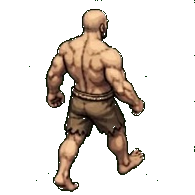
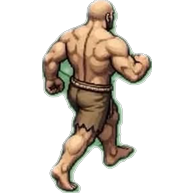
BUILD 399: bare up idle/walk replaced per user direction with the user-supplied back-view art; sim 43,444 passed

Changed region(s): [[0.2154, 0.0, 0.8, 1.0], [0.9846, 0.7385, 1.0, 0.8], [0.9846, 0.0, 1.0, 0.0308]]

diff --git a/index.html b/index.html
@@ -1,1 +1,1 @@
-<!doctype html><html lang="en"><head><!-- BUILD309-VIEWPORT-FIX-MARKER --><meta charset="UTF-8"><meta name="viewport" content="width=device-width, initial-scale=1.0, maximum-scale=1.0, user-scalable=no"><meta name="theme-color" content="#17362e"><link rel="icon" type="image/svg+xml" href="favicon.svg"><meta name="description" content="Explore Mosslight Crossing in the Adventure Game field journal."><title>Adventure Game — Mosslight Crossing</title></head><body><div id="root"></div><script>window.__AG_BUILD="398";(function(){var shown=false;function code(m){var h=0,s=window.__AG_BUILD+"|"+m;for(var i=0;i<s.length;i++){h=(Math.imul(h,31)+s.charCodeAt(i))|0;}return "AG"+window.__AG_BUILD+"-"+(h>>>0).toString(36).toUpperCase().padStart(6,"0").slice(-5);}function show(m,k){if(shown||window.__agBooted)return;shown=true;var d=document.createElement("div");d.id="ag-boot-crash";var p=document.createElement("div");p.className="ag-boot-panel";var t=document.createElement("div");t.className="ag-boot-title";t.textContent="\u26a0 GAME FAILED TO START";var c=document.createElement("div");c.className="ag-boot-code";c.textContent=code(String(m));var g=document.createElement("div");g.className="ag-boot-msg";g.textContent=String(m).slice(0,300);var n=document.createElement("div");n.className="ag-boot-kind";n.textContent=k;var b=document.createElement("button");b.textContent="Reload game";b.onclick=function(){location.reload();};p.appendChild(t);p.appendChild(c);p.appendChild(g);p.appendChild(n);p.appendChild(b);d.appendChild(p);document.body.appendChild(d);}window.addEventListener("error",function(e){if(e.target&&e.target!==window)return;show(e.message||"script error","boot error");},true);window.addEventListener("unhandledrejection",function(e){var r=e.reason;show((r&&(r.message||r))||"rejection","boot rejection");});setTimeout(function(){if(!window.__agBooted)show("The game did not finish loading in time.","load timeout");},20000);})();</script><style>#ag-boot-crash{position:fixed;inset:0;z-index:99999;background:#0d1a16;display:flex;align-items:center;justify-content:center;padding:24px}#ag-boot-crash .ag-boot-panel{max-width:420px;width:100%;background:#14261f;border:1px solid #2c4a3e;border-radius:12px;padding:24px;text-align:center;color:#e8f0e9;font-family:system-ui,sans-serif}#ag-boot-crash .ag-boot-title{font-size:20px;font-weight:800;letter-spacing:.5px}#ag-boot-crash .ag-boot-code{font-family:monospace;font-size:22px;color:#ffd75e;margin:12px 0;letter-spacing:1px}#ag-boot-crash .ag-boot-msg{font-size:13px;color:#b9c9bd;word-break:break-word}#ag-boot-crash .ag-boot-kind{font-size:11px;color:#7d8f83;margin-top:8px;text-transform:uppercase;letter-spacing:1px}#ag-boot-crash button{margin-top:16px;background:#e8a33d;border:0;border-radius:8px;padding:10px 22px;font-size:15px;font-weight:700;color:#231603;cursor:pointer}</style><script type="module" src="/src/main.tsx"></script></body></html>
+<!doctype html><html lang="en"><head><!-- BUILD309-VIEWPORT-FIX-MARKER --><meta charset="UTF-8"><meta name="viewport" content="width=device-width, initial-scale=1.0, maximum-scale=1.0, user-scalable=no"><meta name="theme-color" content="#17362e"><link rel="icon" type="image/svg+xml" href="favicon.svg"><meta name="description" content="Explore Mosslight Crossing in the Adventure Game field journal."><title>Adventure Game — Mosslight Crossing</title></head><body><div id="root"></div><script>window.__AG_BUILD="399";(function(){var shown=false;function code(m){var h=0,s=window.__AG_BUILD+"|"+m;for(var i=0;i<s.length;i++){h=(Math.imul(h,31)+s.charCodeAt(i))|0;}return "AG"+window.__AG_BUILD+"-"+(h>>>0).toString(36).toUpperCase().padStart(6,"0").slice(-5);}function show(m,k){if(shown||window.__agBooted)return;shown=true;var d=document.createElement("div");d.id="ag-boot-crash";var p=document.createElement("div");p.className="ag-boot-panel";var t=document.createElement("div");t.className="ag-boot-title";t.textContent="\u26a0 GAME FAILED TO START";var c=document.createElement("div");c.className="ag-boot-code";c.textContent=code(String(m));var g=document.createElement("div");g.className="ag-boot-msg";g.textContent=String(m).slice(0,300);var n=document.createElement("div");n.className="ag-boot-kind";n.textContent=k;var b=document.createElement("button");b.textContent="Reload game";b.onclick=function(){location.reload();};p.appendChild(t);p.appendChild(c);p.appendChild(g);p.appendChild(n);p.appendChild(b);d.appendChild(p);document.body.appendChild(d);}window.addEventListener("error",function(e){if(e.target&&e.target!==window)return;show(e.message||"script error","boot error");},true);window.addEventListener("unhandledrejection",function(e){var r=e.reason;show((r&&(r.message||r))||"rejection","boot rejection");});setTimeout(function(){if(!window.__agBooted)show("The game did not finish loading in time.","load timeout");},20000);})();</script><style>#ag-boot-crash{position:fixed;inset:0;z-index:99999;background:#0d1a16;display:flex;align-items:center;justify-content:center;padding:24px}#ag-boot-crash .ag-boot-panel{max-width:420px;width:100%;background:#14261f;border:1px solid #2c4a3e;border-radius:12px;padding:24px;text-align:center;color:#e8f0e9;font-family:system-ui,sans-serif}#ag-boot-crash .ag-boot-title{font-size:20px;font-weight:800;letter-spacing:.5px}#ag-boot-crash .ag-boot-code{font-family:monospace;font-size:22px;color:#ffd75e;margin:12px 0;letter-spacing:1px}#ag-boot-crash .ag-boot-msg{font-size:13px;color:#b9c9bd;word-break:break-word}#ag-boot-crash .ag-boot-kind{font-size:11px;color:#7d8f83;margin-top:8px;text-transform:uppercase;letter-spacing:1px}#ag-boot-crash button{margin-top:16px;background:#e8a33d;border:0;border-radius:8px;padding:10px 22px;font-size:15px;font-weight:700;color:#231603;cursor:pointer}</style><script type="module" src="/src/main.tsx"></script></body></html>
